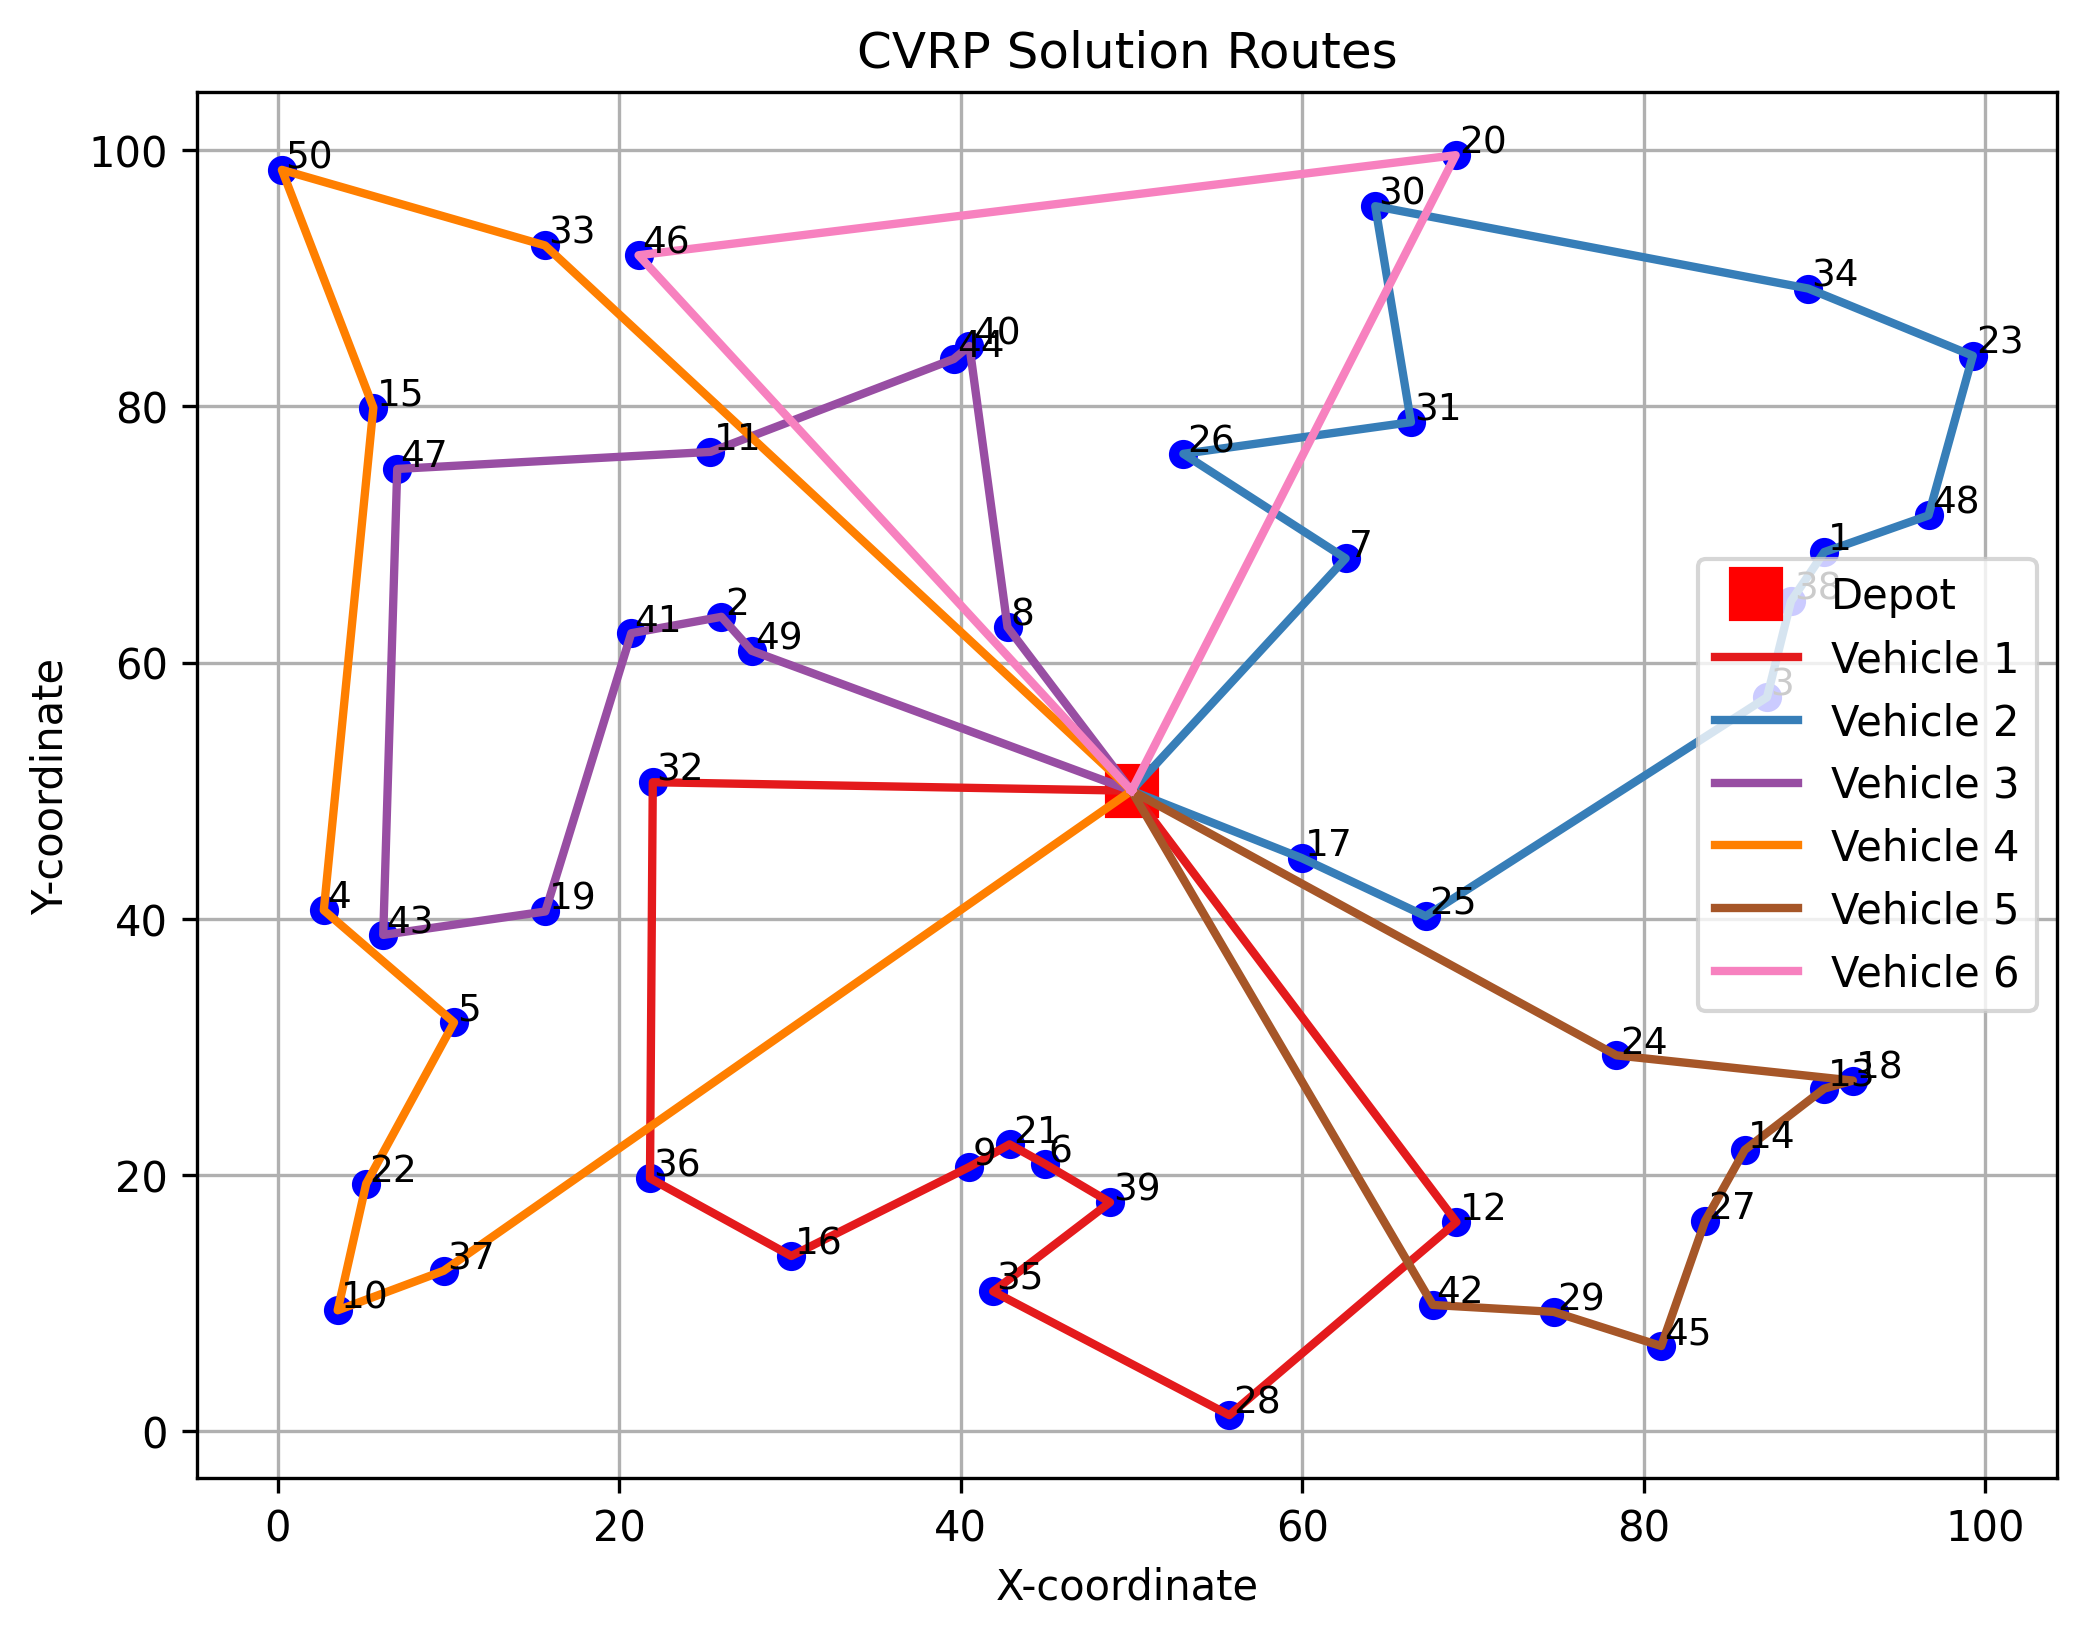
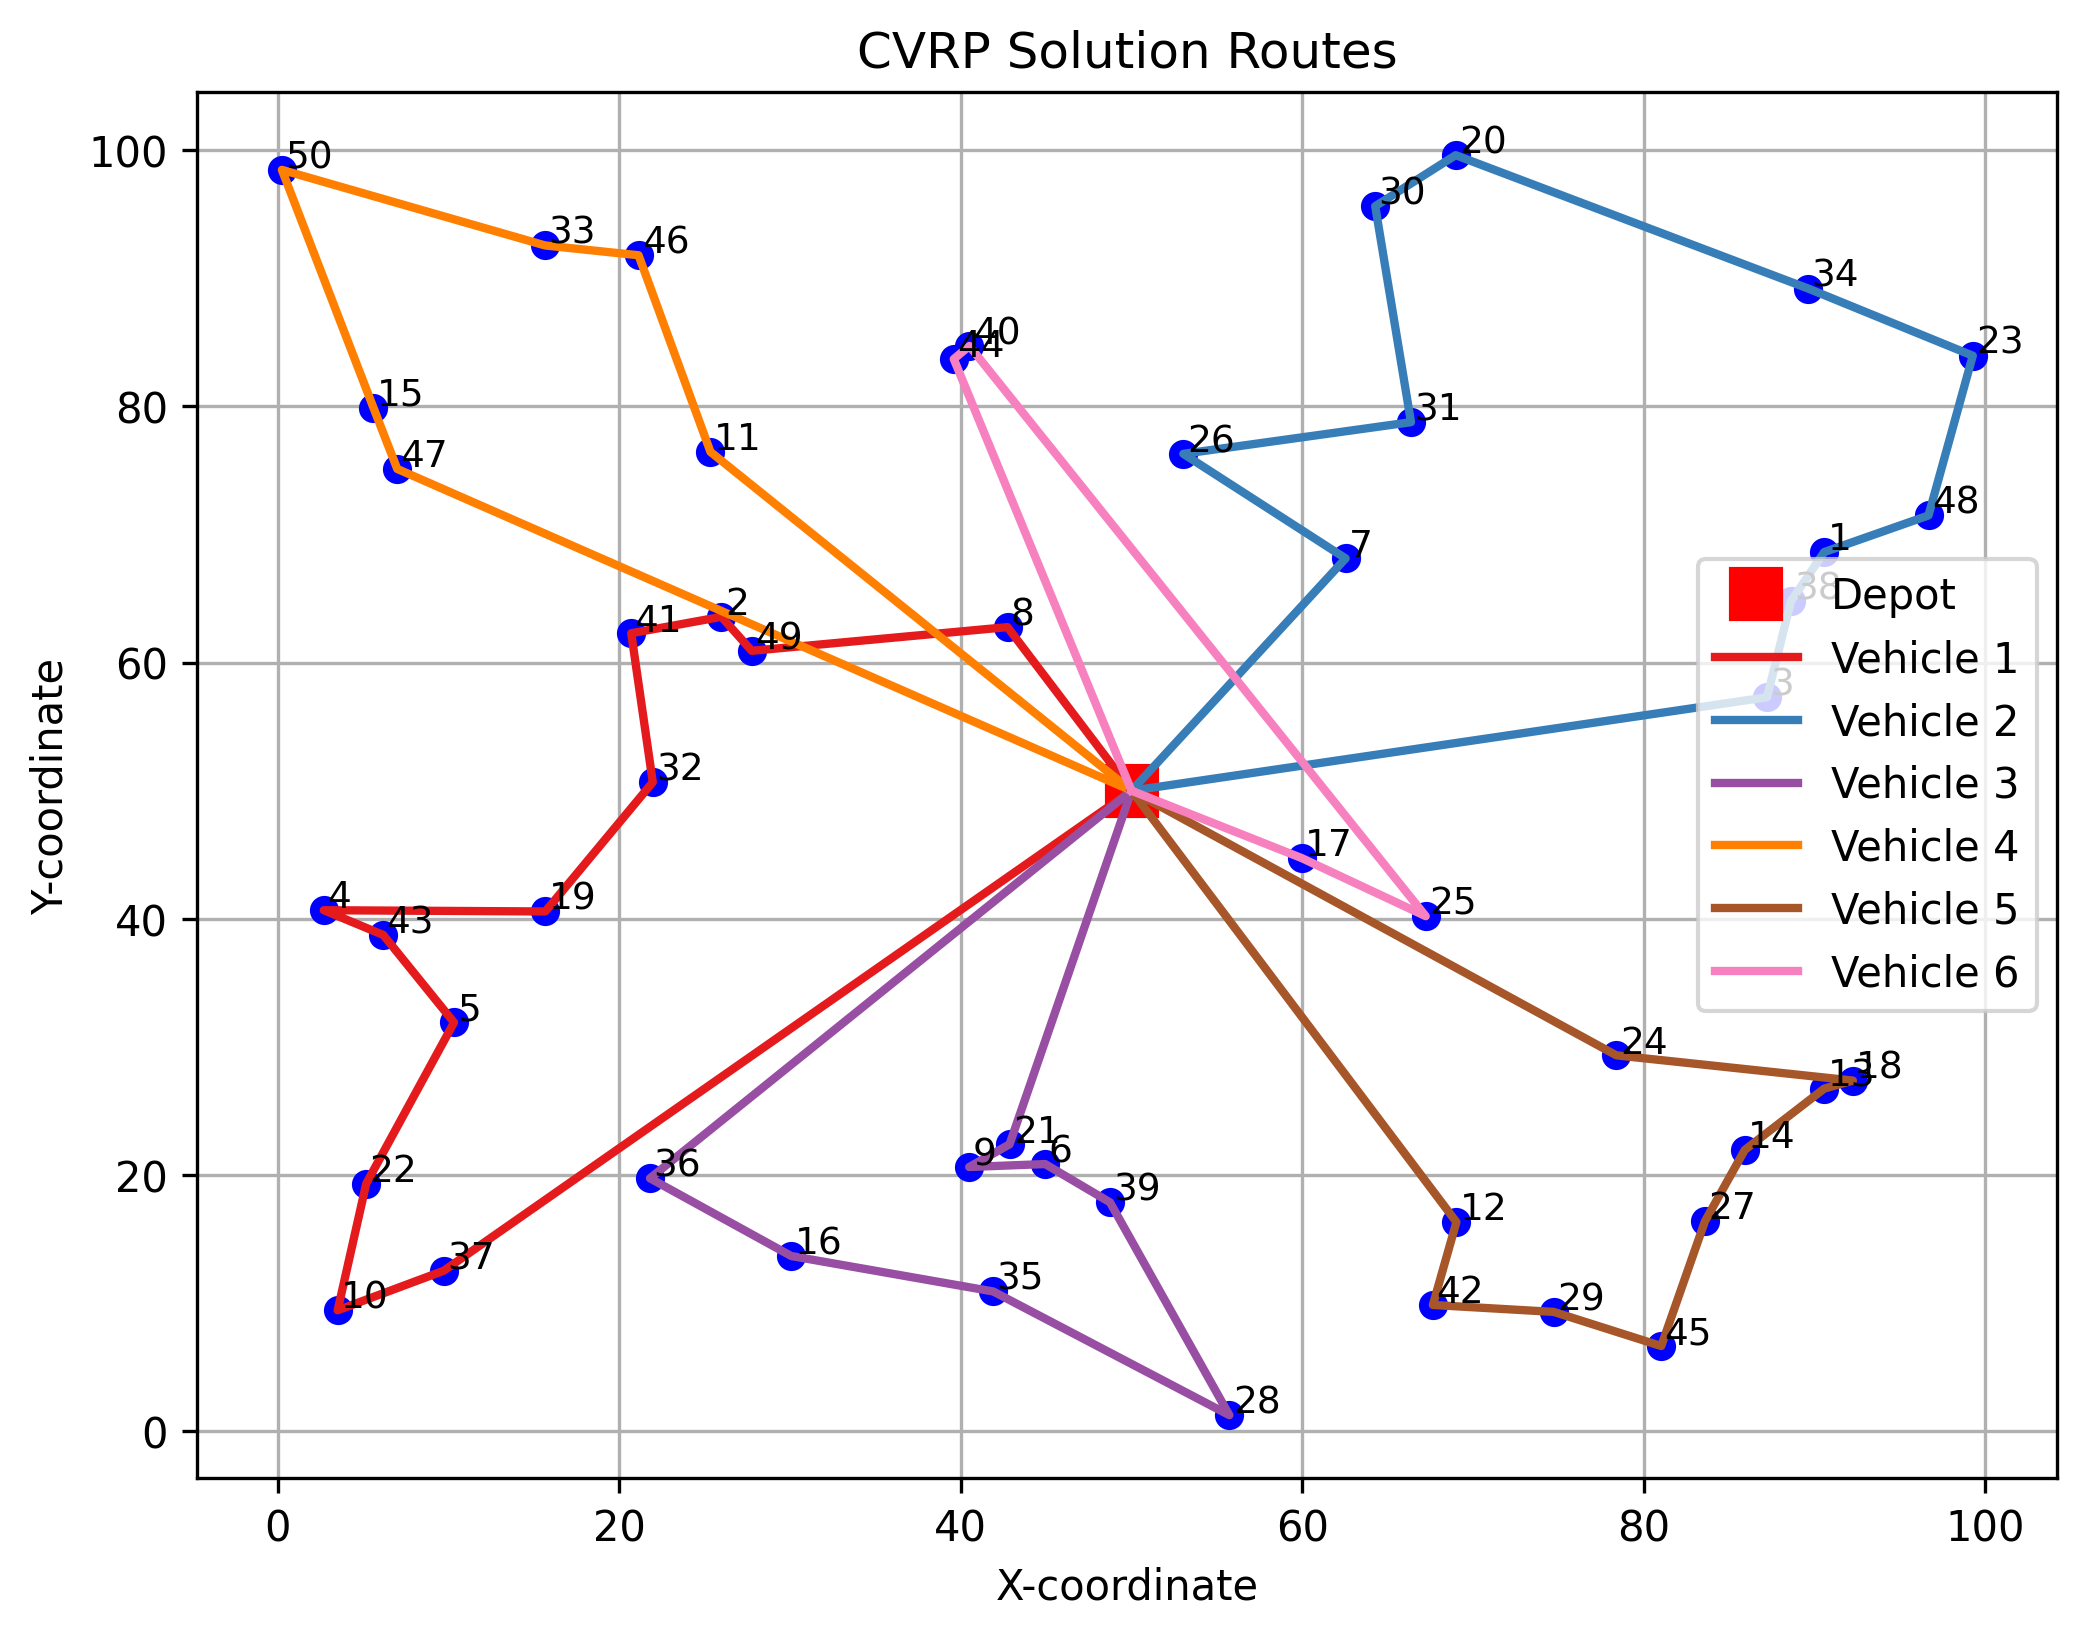
Change as said in paper, phase 1

diff --git a/Improved_Paper/phaseOne.py b/Improved_Paper/phaseOne.py
@@ -86,7 +86,7 @@ def mean_distance_from_centroid_avg_demand(points, cluster, customers):
 
 def _cluster_iteration(seed_node, customers, capacity, dmat):
 
-    unclustered = set(range(1, len(customers)))     # ignoramos depósito (0)
+    unclustered = set(range(1, len(customers)))  # ignoramos depósito
     clusters = []
 
     """
@@ -97,17 +97,15 @@ def _cluster_iteration(seed_node, customers, capacity, dmat):
     This procedure is repeated
     until all the customer nodes are clustered and subsequently the next ((n+1)th) iteration commences. 
     """
-
     while unclustered:
-
+        
         """
         The first cluster of the nth iteration is started with nth customer node by setting the total demand of the current
         cluster (TDCC) to the demand of the nth customer node and nth customer node is marked as a clustered node. 
         """
-        current = seed_node if seed_node in unclustered else next(iter(unclustered))
-        cluster = [current]
-        load = customers[current]["demand"]
-        unclustered.remove(current)
+        v = seed_node if seed_node in unclustered else min(unclustered)
+        cluster = [v]; load = customers[v]["demand"]; unclustered.remove(v)
+
 
         """
         In each iteration, all customers to be
@@ -119,15 +117,24 @@ def _cluster_iteration(seed_node, customers, capacity, dmat):
         node i is added (TDCC = TDCC + di) to TDCC. Accordingly, customer nodes are inserted to the first cluster
         from the top of the list until vehicle capacity constraint reached.
         """
-        dist_list = sorted((dmat[current, j], j) for j in unclustered)
-        for _, j in dist_list:
-            dem = customers[j]["demand"]
-            if load + dem <= capacity:
-                cluster.append(j)
-                load += dem
-                unclustered.remove(j)
+
+        while True:
+
+            # rebuild list each time, as required
+            dist_list = sorted((dmat[v,u], u) for u in unclustered)
+            if not dist_list: break
+            _, i = dist_list[0]
+
+            if load + customers[i]["demand"] <= capacity:     # fits -> put inside
+                cluster.append(i)
+                load += customers[i]["demand"]
+                unclustered.remove(i)
+                v = i                            
+            else:                                # doesn’t fit -> start new cluster
+                break  
 
         clusters.append(cluster)
+
         """
         Afterwards, next customer node (i) from the distance list is selected and the second cluster starts with
         that selected customer node.

diff --git a/Paper/phaseOne.py b/Paper/phaseOne.py
@@ -75,15 +75,14 @@ def _cluster_iteration(seed_node, customers, capacity, dmat):
     until all the customer nodes are clustered and subsequently the next ((n+1)th) iteration commences. 
     """
     while unclustered:
-
+        
         """
         The first cluster of the nth iteration is started with nth customer node by setting the total demand of the current
         cluster (TDCC) to the demand of the nth customer node and nth customer node is marked as a clustered node. 
         """
-        current = seed_node if seed_node in unclustered else next(iter(unclustered))
-        cluster = [current]
-        load = customers[current]["demand"]
-        unclustered.remove(current)
+        v = seed_node if seed_node in unclustered else min(unclustered)
+        cluster = [v]; load = customers[v]["demand"]; unclustered.remove(v)
+
 
         """
         In each iteration, all customers to be
@@ -95,15 +94,24 @@ def _cluster_iteration(seed_node, customers, capacity, dmat):
         node i is added (TDCC = TDCC + di) to TDCC. Accordingly, customer nodes are inserted to the first cluster
         from the top of the list until vehicle capacity constraint reached.
         """
-        dist_list = sorted((dmat[current, j], j) for j in unclustered)
-        for _, j in dist_list:
-            dem = customers[j]["demand"]
-            if load + dem <= capacity:
-                cluster.append(j)
-                load += dem
-                unclustered.remove(j)
+
+        while True:
+
+            # rebuild list each time, as required
+            dist_list = sorted((dmat[v,u], u) for u in unclustered)
+            if not dist_list: break
+            _, i = dist_list[0]
+
+            if load + customers[i]["demand"] <= capacity:     # fits -> put inside
+                cluster.append(i)
+                load += customers[i]["demand"]
+                unclustered.remove(i)
+                v = i                            
+            else:                                # doesn’t fit -> start new cluster
+                break  
 
         clusters.append(cluster)
+
         """
         Afterwards, next customer node (i) from the distance list is selected and the second cluster starts with
         that selected customer node.
